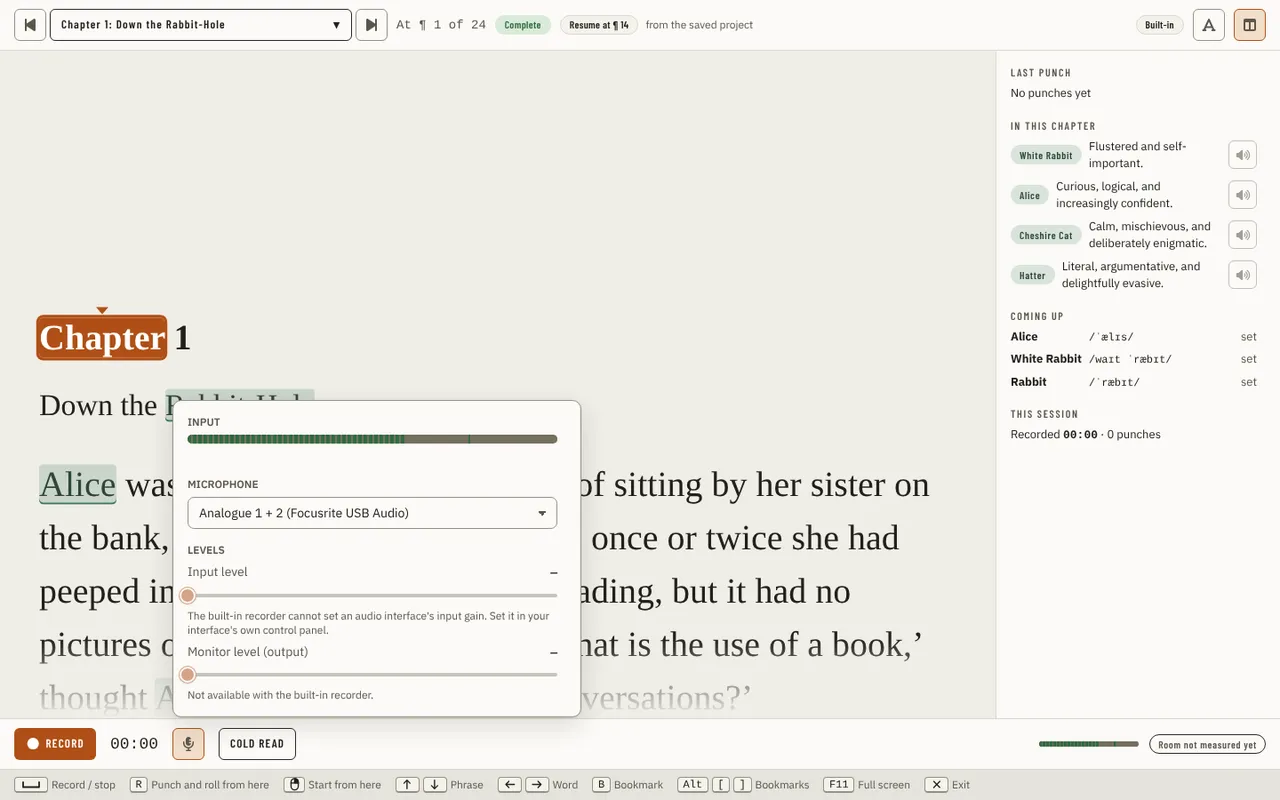
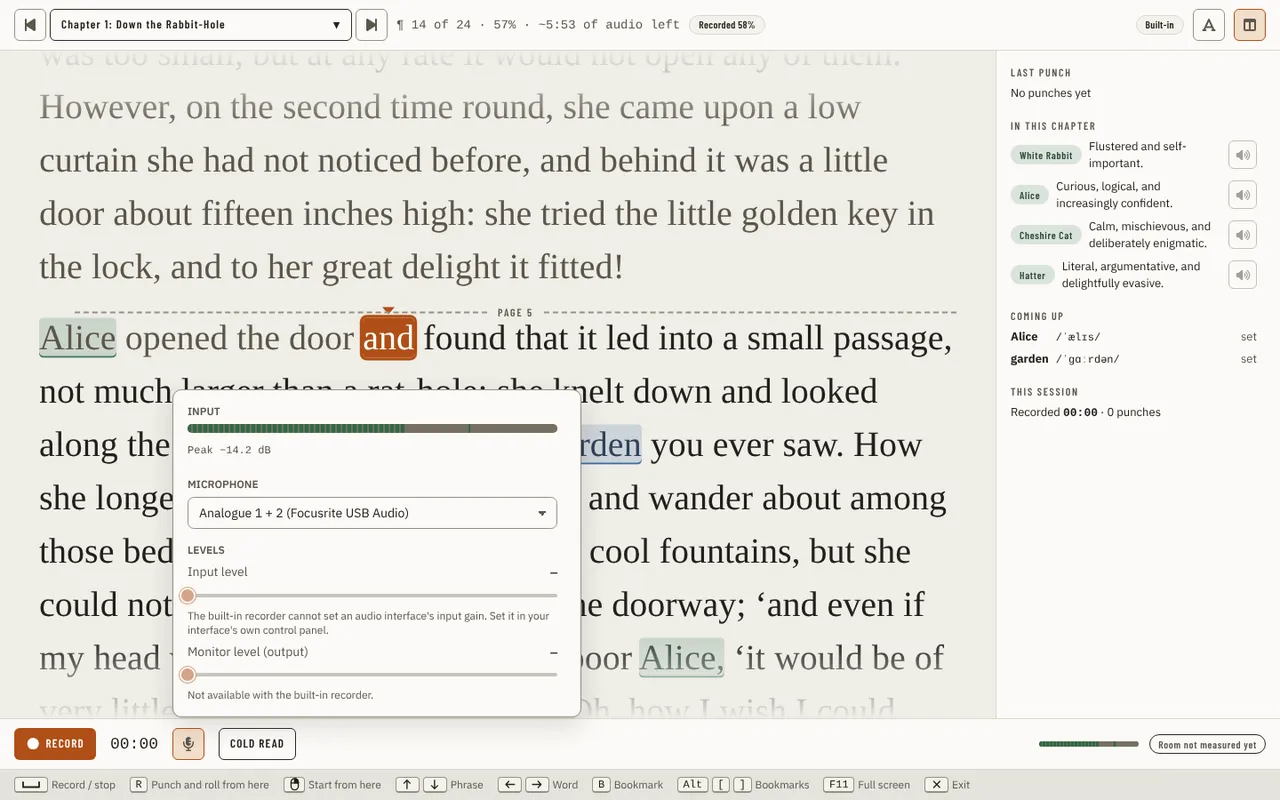
fix(booth): keep the Levels menu one height whatever the built-in meter does
ux-reviewer found the line under the built-in Input meter grew with a
refusal that wrapped, so the popover jumped, and stood empty as a gap
the rest of the time.

The line is now one fixed line (Check again's height): the held peak
while the meter reads ("Peak -14.2 dB"), else a short sentence that fits
at 390 px: "Opening the microphone…", "Paused while the app is in the
background.", "No microphone chosen." or "The meter did not start." with
Check again. The recorder's own reason, which can run long, is an error
toast with Retry.

New visual states for the opening, paused, no-microphone and refused
lines (mock seeds meter-hangs and mic-gone), and a Playwright test that
the menu keeps one height across them at 1440 and 390 px.

Claude-Session: https://claude.ai/code/session_01EBTykgAY8Rr8x1FcnRh3Fp

diff --git a/src/studio/ui/src/components/booth/frame/LevelsMenu.tsx b/src/studio/ui/src/components/booth/frame/LevelsMenu.tsx
@@ -2,6 +2,7 @@ import { useEffect, useState } from 'react';
 import type { DawCapabilitySupport } from '../../../api/contracts/daw';
 import type { RecordingEngine, RecorderDevice } from '../../../api/contracts/recording';
 import type { TeleprompterDevice } from '../../../api/contracts/teleprompter';
+import { useErrorToast } from '../../../hooks/useErrorToast';
 import { usePort } from '../../../ports/usePort';
 import { Button } from '../../primitives/Button';
 import { IconButton } from '../../primitives/IconButton';
@@ -293,29 +294,38 @@ function DawMeter({ caption, label, db, why }: { caption: string; label: string;
   );
 }
 
-/** What the built-in meter's sentence line says: what it is doing, why it shows no level, or nothing while it reads. */
-function recorderWhy(view: RecorderMeterView, device: string, listed: boolean): string | undefined {
+/**
+ * The built-in meter's one line, under the meter: the held peak while it reads, else a short sentence that always fits one line at the
+ * narrowest menu (390 px), so the menu never changes height between states. A refusal's own words, which can run long (a device's name),
+ * go in an error toast instead (docs/design/design-system.md#errors).
+ */
+function recorderLine(view: RecorderMeterView, listed: boolean): string | undefined {
   // With no microphone listed, the picker under the meter already says so.
   if (view.status === 'none') return listed ? 'No microphone chosen.' : undefined;
-  if ((view.status === 'starting' || view.status === 'take') && view.level === null) return `Opening ${device}…`;
+  if (view.status === 'starting' || view.status === 'take') return view.level === null ? 'Opening the microphone…' : undefined;
   if (view.status === 'paused') return 'Paused while the app is in the background.';
-  if (view.status === 'refused') return view.message ?? undefined;
+  if (view.status === 'refused') return 'The meter did not start.';
   return undefined;
 }
+
+/** The held peak as the line under the meter shows it: "Peak −14.2 dB", with a real minus sign. */
+const peakText = (peak: number): string => `Peak ${peak.toFixed(1).replace('-', '−')} dB`;
 
 /**
  * The menu's Input and Microphone with the built-in recorder (#2732): the one input meter is the recorder's own level for the microphone the
  * picker shows (the mock's Input meter, "the real level comes from the recorder"), started only on a microphone the recorder lists. Under it,
- * one line kept for its sentence (opening, paused, refused) with Check again after a refusal. A meter with no reading yet is drawn dimmed
- * and hidden from screen readers, so an opening microphone never reads as a silent one. Mounted only while the menu is open.
+ * one line of fixed height: the held peak while it reads, else what it is doing (opening, paused) or why it shows none, with Check again
+ * after a refusal, whose own words are an error toast with Retry. A meter with no reading yet is drawn dimmed and hidden from screen
+ * readers, so an opening microphone never reads as a silent one. Mounted only while the menu is open.
  */
 function BuiltinInput({ device, onDevice, recording }: { device: string; onDevice: (device: string) => void; recording: boolean }) {
   const { devices, problem } = useRecorderDevices();
   const listedDevice = devices === null ? null : devices.some((d) => d.name === device) ? device : '';
   const view = useRecorderMeter(listedDevice, recording);
   const reading = (view.status === 'live' || view.status === 'take') && view.level !== null ? view.level : null;
-  const why = recorderWhy(view, device, (devices?.length ?? 0) > 0);
   const refused = view.status === 'refused';
+  useErrorToast(refused ? view.message : null, view.retry);
+  const line = recorderLine(view, (devices?.length ?? 0) > 0);
   return (
     <>
       <div className="flex flex-col gap-1.5">
@@ -323,13 +333,15 @@ function BuiltinInput({ device, onDevice, recording }: { device: string; onDevic
         <div data-testid="input-meter" className={reading === null ? 'opacity-50' : ''}>
           <LevelMeter label="Input level" peak={reading?.peak ?? null} rms={reading?.rms ?? null} size="regular" decorative={reading === null} />
         </div>
-        {/* One line is kept for the sentence, so the menu does not jump as the meter starts; Check again, after a refusal, makes it taller. */}
-        <div className="flex min-h-4 items-center gap-2">
-          <span
-            role={refused ? 'alert' : 'status'}
-            className={`min-w-0 flex-1 text-xs [overflow-wrap:anywhere] ${refused ? 'text-[var(--danger-text)]' : 'text-[var(--text-muted)]'}`}
-          >
-            {why}
+        {/* One line of fixed height, Check again's included: the menu keeps its height whatever the meter is doing. */}
+        <div data-testid="input-line" className="flex h-7 items-center gap-2 text-xs whitespace-nowrap">
+          {reading ? (
+            <span aria-hidden="true" className="font-mono text-[var(--text-muted)] tabular-nums">
+              {peakText(reading.peak)}
+            </span>
+          ) : null}
+          <span role="status" className={`min-w-0 flex-1 truncate ${refused ? 'text-[var(--danger-text)]' : 'text-[var(--text-muted)]'}`}>
+            {line}
           </span>
           {refused ? <IconButton action="retry" label="Check again" size="xs" onClick={view.retry} /> : null}
         </div>

diff --git a/src/studio/ui/src/components/booth/frame/recorderMeter.test.tsx b/src/studio/ui/src/components/booth/frame/recorderMeter.test.tsx
@@ -211,14 +211,16 @@ describe("the built-in recorder's meter in the Levels menu", () => {
     expect(recorder.listeners.size).toBe(0);
   });
 
-  it('a refusal is the meter’s sentence, and the meter shows no reading', async () => {
+  it('a refusal says the meter did not start, gives its reason as an error toast, and shows no reading', async () => {
+    const toast = vi.spyOn(overlay, 'toast');
     const recorder = fakeRecorder();
     recorder.api.recorderMeterStart = async () => {
       throw new Error('a take is recording; its level shows in the Booth');
     };
     const { open } = booth(recorder.api);
     await open();
-    expect(await within(popup()).findByRole('alert')).toHaveProperty('textContent', 'a take is recording; its level shows in the Booth');
+    expect(await within(popup()).findByText('The meter did not start.')).toBeTruthy();
+    expect(toast).toHaveBeenCalledWith('a take is recording; its level shows in the Booth', expect.objectContaining({ tone: 'error' }));
     expect(within(popup()).queryByRole('meter', { name: 'Input level' })).toBeNull();
   });
 
@@ -301,9 +303,11 @@ describe("the built-in recorder's meter in the Levels menu", () => {
     const { open, close } = booth(recorder.api);
     await open();
     await waitFor(() => expect(recorder.calls).toEqual(['start:USB Mic']));
-    expect(within(popup()).getByText('Opening USB Mic…')).toBeTruthy();
+    const toast = vi.spyOn(overlay, 'toast');
+    expect(within(popup()).getByText('Opening the microphone…')).toBeTruthy();
     await act(async () => void (await vi.advanceTimersByTimeAsync(METER_WAIT_MS + 100)));
-    expect(within(popup()).getByRole('alert').textContent).toBe('The built-in recorder did not answer in 15 s.');
+    expect(within(popup()).getByText('The meter did not start.')).toBeTruthy();
+    expect(toast).toHaveBeenCalledWith('The built-in recorder did not answer in 15 s.', expect.objectContaining({ tone: 'error' }));
     await close();
     await waitFor(() => expect(recorder.calls).toEqual(['start:USB Mic', 'stop']));
   });
@@ -329,8 +333,8 @@ describe("the built-in recorder's meter in the Levels menu", () => {
       const { open, unmount } = booth(recorder.api, { device: name });
       await open();
       await waitFor(() => expect(recorder.calls).toEqual([`start:${name}`]));
-      const opening = within(popup()).getByText(`Opening ${name}…`);
-      expect(opening.className).toContain('[overflow-wrap:anywhere]');
+      // The line under the meter never names the device, so a long name cannot make the menu taller.
+      expect(within(popup()).getByText('Opening the microphone…')).toBeTruthy();
       unmount();
       cleanup();
     }
@@ -372,7 +376,7 @@ describe("the built-in recorder's meter in the Levels menu", () => {
     const { open } = booth(recorder.api);
     await open();
     await waitFor(() => expect(recorder.calls).toEqual(['start:USB Mic']));
-    expect(within(popup()).getByText('Opening USB Mic…')).toBeTruthy();
+    expect(within(popup()).getByText('Opening the microphone…')).toBeTruthy();
     expect(within(popup()).queryByRole('meter', { name: 'Input level' })).toBeNull();
     expect(within(popup()).getByTestId('input-meter').className).toContain('opacity-50');
   });
@@ -398,11 +402,11 @@ describe("the built-in recorder's meter in the Levels menu", () => {
     recorder.api.recorderMeterStart = (device: string) => (refuse ? Promise.reject(new Error('USB Mic is in use by another program')) : start(device));
     const { open } = booth(recorder.api);
     await open();
-    expect(await within(popup()).findByRole('alert')).toHaveProperty('textContent', 'USB Mic is in use by another program');
+    expect(await within(popup()).findByText('The meter did not start.')).toBeTruthy();
     refuse = false;
     await userEvent.click(within(popup()).getByRole('button', { name: 'Check again' }));
     await waitFor(() => expect(recorder.calls).toEqual(['start:USB Mic']));
-    expect(within(popup()).queryByRole('alert')).toBeNull();
+    expect(within(popup()).queryByText('The meter did not start.')).toBeNull();
     expect(within(popup()).queryByRole('button', { name: 'Check again' })).toBeNull();
   });
 
@@ -429,6 +433,19 @@ describe("the built-in recorder's meter in the Levels menu", () => {
     expect(await within(popup()).findByText('Paused while the app is in the background.')).toBeTruthy();
     fireEvent.focus(window);
     await waitFor(() => expect(within(popup()).queryByText('Paused while the app is in the background.')).toBeNull());
+  });
+
+  // ux-reviewer: a refusal that wrapped made the menu taller, so the popover jumped. Every state's line is one fixed line.
+  it('keeps every sentence on one fixed line under the meter, the reading shown as the held peak', async () => {
+    const recorder = fakeRecorder();
+    const { open } = booth(recorder.api);
+    await open();
+    await waitFor(() => expect(recorder.calls).toEqual(['start:USB Mic']));
+    recorder.emit({ peak: -14.2, rms: -24.6 });
+    const line = within(popup()).getByTestId('input-line');
+    await waitFor(() => expect(line.textContent).toContain('Peak −14.2 dB'));
+    expect(line.className).toContain('h-7');
+    expect(line.className).toContain('whitespace-nowrap');
   });
 
   it('runs against the mock recorder: a steady level while the menu is open, none after it closes', async () => {

diff --git a/src/studio/ui/tests/visual/drivers/booth.ts b/src/studio/ui/tests/visual/drivers/booth.ts
@@ -377,11 +377,30 @@ export const boothDrivers: Record<string, Driver> = {
     await page.getByRole('button', { name: 'Levels' }).click();
     const menu = page.getByRole('dialog', { name: 'Levels' });
     await menu.getByRole('combobox', { name: 'Microphone' }).selectOption({ label: 'Analogue 1 + 2 (Focusrite USB Audio)' });
-    await menu
-      .getByRole('alert')
-      .filter({ hasText: /could not open/ })
-      .waitFor();
+    await menu.getByText('The meter did not start.').waitFor();
     await menu.getByRole('button', { name: 'Check again' }).waitFor();
+    // The recorder's own words come as an error toast beside the menu.
+    await page
+      .getByText(/could not open/)
+      .first()
+      .waitFor();
+  },
+  'levels-menu-builtin-opening': async (page) => {
+    await readyToRecord(page, '?mockEngine=builtin&mockRecorder=meter-hangs');
+    await page.getByRole('button', { name: 'Levels' }).click();
+    const menu = page.getByRole('dialog', { name: 'Levels' });
+    await menu.getByRole('combobox', { name: 'Microphone' }).selectOption({ label: 'Analogue 1 + 2 (Focusrite USB Audio)' });
+    await menu.getByText('Opening the microphone…').waitFor();
+  },
+  'levels-menu-builtin-paused': async (page) => {
+    await openBuiltinLevels(page, '?mockEngine=builtin', 'Analogue 1 + 2 (Focusrite USB Audio)');
+    await page.evaluate(() => window.dispatchEvent(new Event('blur')));
+    await page.getByRole('dialog', { name: 'Levels' }).getByText('Paused while the app is in the background.').waitFor();
+  },
+  'levels-menu-builtin-no-mic': async (page) => {
+    await readyToRecord(page, '?mockEngine=builtin&mockRecorder=mic-gone');
+    await page.getByRole('button', { name: 'Levels' }).click();
+    await page.getByRole('dialog', { name: 'Levels' }).getByText('No microphone chosen.').waitFor();
   },
   'levels-menu-builtin-long-name': (page) => openBuiltinLevels(page, '?mockEngine=builtin&mockMics=long', `Long ${'microphone name '.repeat(19)}end`),
   'levels-menu-builtin-rtl-name': (page) => openBuiltinLevels(page, '?mockEngine=builtin&mockMics=weird', 'ميكروفون 🎤 (USB)'),

diff --git a/src/studio/ui/tests/visual/catalog/booth.ts b/src/studio/ui/tests/visual/catalog/booth.ts
@@ -245,7 +245,28 @@ export const boothStates: StateEntry[] = [
     page: 'booth',
     state: 'levels-menu-builtin-refused',
     description:
-      "The Levels menu of levels-menu-builtin when the built-in recorder cannot open the microphone (?mockRecorder=start-fails): the Input meter dimmed with no reading, the recorder's sentence under it in the error colour, and Check again beside it",
+      'The Levels menu of levels-menu-builtin when the built-in recorder cannot open the microphone (?mockRecorder=start-fails): the Input meter dimmed with no reading, "The meter did not start." under it in the error colour with Check again, and the recorder\'s own reason in an error toast',
+    ...REFLOW,
+  },
+  {
+    page: 'booth',
+    state: 'levels-menu-builtin-opening',
+    description:
+      'The Levels menu of levels-menu-builtin while the meter\'s start has not answered (?mockRecorder=meter-hangs): the Input meter dimmed with no reading and "Opening the microphone…" under it, the menu the same height as when it reads',
+    ...REFLOW,
+  },
+  {
+    page: 'booth',
+    state: 'levels-menu-builtin-paused',
+    description:
+      'The Levels menu of levels-menu-builtin after the window lost focus: the meter stopped, dimmed, and "Paused while the app is in the background." under it',
+    ...REFLOW,
+  },
+  {
+    page: 'booth',
+    state: 'levels-menu-builtin-no-mic',
+    description:
+      'The Levels menu with the built-in recorder when it no longer lists the chosen microphone (?mockRecorder=mic-gone): no meter started, the Input meter dimmed and "No microphone chosen." under it, the picker showing the chosen one as not found',
     ...REFLOW,
   },
   {

diff --git a/src/studio/ui/src/main.tsx b/src/studio/ui/src/main.tsx
@@ -418,15 +418,18 @@ const mockProduction = (['on-pace', 'at-risk', 'linked'] as const).find((seed) =
 // `?mockFidelity=05` draws the mock backend as benchmark mock 05 draws Master & QC, for the pixel-match tool (mockHost/mockFidelity.ts).
 const mockFidelity = mockFidelityFrom(mockParams.get('mockFidelity'));
 
-// `?mockRecorder=recording|failed|empty|no-devices|start-fails|unavailable` seeds the Booth's built-in recorder
+// `?mockRecorder=recording|failed|empty|no-devices|start-fails|meter-hangs|mic-gone|unavailable` seeds the Booth's built-in recorder
 // with `?mockEngine=builtin` choosing it: a take 42 s in; the last take ended on
-// its own; no takes yet; no input device listed; a device that will not open on Record; the wasapi row unavailable here.
+// its own; no takes yet; no input device listed; a device that will not open on Record; a Levels meter whose start never answers; a
+// recorder that no longer lists the microphone the Booth listens on (other microphones listed); the wasapi row unavailable here.
 const MOCK_RECORDER_SEEDS: Record<string, RecordingMockSeed> = {
   recording: { recording: true },
   failed: { lastTakeFailed: true },
   empty: { takes: 'none' },
   'no-devices': { takes: 'none', devices: 'none' },
   'start-fails': { startFails: true },
+  'meter-hangs': { meterHangs: true },
+  'mic-gone': { deviceNames: ['USB Headset (Jabra Evolve2)', 'Line In (Realtek(R) Audio)'] },
   unavailable: { unavailable: true },
 };
 const mockRecorderParam = mockParams.get('mockRecorder') ?? '';

diff --git a/src/studio/ui/tests/visual/booth-popovers.spec.ts b/src/studio/ui/tests/visual/booth-popovers.spec.ts
@@ -46,3 +46,28 @@ for (const size of [
     expect.soft(new Set(g.gaps).size, 'one gap between sections').toBe(1);
   });
 }
+
+// ux-reviewer on #2802: a refusal that wrapped made the Levels menu taller, so the popover jumped. With the built-in recorder, the menu is
+// one height whatever its meter is doing: reading, opening, paused, refused or with no microphone chosen.
+for (const size of [
+  { width: 1440, height: 900 },
+  { width: 390, height: 844 },
+]) {
+  test(`levels-menu-builtin at ${size.width}: the menu keeps one height across the meter's states`, async ({ page }) => {
+    // Five states, each from a fresh load.
+    test.setTimeout(150_000);
+    const heights: Record<string, number> = {};
+    for (const state of [
+      'levels-menu-builtin',
+      'levels-menu-builtin-opening',
+      'levels-menu-builtin-paused',
+      'levels-menu-builtin-refused',
+      'levels-menu-builtin-no-mic',
+    ]) {
+      await drive(page, state, size);
+      const box = await page.getByRole('dialog', { name: 'Levels' }).boundingBox();
+      heights[state] = Math.round(box!.height);
+    }
+    expect(new Set(Object.values(heights)).size, JSON.stringify(heights)).toBe(1);
+  });
+}

diff --git a/src/studio/ui/src/api/recordingMock.ts b/src/studio/ui/src/api/recordingMock.ts
@@ -51,6 +51,8 @@ export type RecordingMockSeed = {
   deviceNames?: readonly string[];
   /** Start, and the meter's start, are refused with the sidecar's sentence (a device that will not open). */
   startFails?: boolean;
+  /** The meter's start never answers (a recorder that has stopped responding). */
+  meterHangs?: boolean;
 };
 
 /**
@@ -137,6 +139,7 @@ export function createRecordingMock(seed: RecordingMockSeed = {}): RecordingApi 
       builtin();
       if (state.phase === 'recording' || state.phase === 'stopping') throw new Error('a take is recording; its level shows in the Booth');
       if (!device.trim()) throw new Error('choose a microphone');
+      if (seed.meterHangs) return new Promise<RecorderState>(() => undefined);
       // A device that will not open for a take will not open for the meter either.
       if (seed.startFails) throw new Error(`The built-in recorder could not open ${device}: the device is in use by another application`);
       state = { ...state, phase: 'metering', device, message: '' };

diff --git a/src/studio/ui/src/interactionFeedback/recording.ts b/src/studio/ui/src/interactionFeedback/recording.ts
@@ -8,10 +8,10 @@ export const recordingFeedback = {
     'inline',
     'pending',
     'ui',
-    'inline',
+    'toast',
     'yes',
     'ok',
-    "Opening the Booth's Levels menu with the built-in recorder starts its meter on the chosen microphone: the row says it is opening the device, then the level moves; a refusal, or no answer within METER_WAIT_MS, is the row's sentence. One call at a time, kept outside the menu, so a call on its way survives closing it.",
+    "Opening the Booth's Levels menu with the built-in recorder starts its meter on the chosen microphone: the line under the meter says it is opening it, then the level moves; a refusal, or no answer within METER_WAIT_MS, says the meter did not start, with Check again, and its reason is an error toast with Retry. One call at a time, kept outside the menu, so a call on its way survives closing it.",
   ),
   'src/components/booth/frame/recorderMeter.ts::recorderMeterStop#1': row(
     'effect',

diff --git a/docs/guides/using-the-app/booth.md b/docs/guides/using-the-app/booth.md
@@ -204,10 +204,11 @@ in the project's `Recordings` folder (`Take 001.wav`, `Take 002.wav`, …); an e
   will not let the app open (another program has it, or the privacy setting blocks it) is refused in the recorder's own words and
   nothing records.
 - **The recorder's own level.** While **Levels** is open, its **Input** meter shows the level the built-in recorder hears on the
-  microphone chosen under it, before a take and during one. No file is written. Choosing another microphone moves it to that one;
-  a microphone the recorder does not list is not metered. The recorder lets go of the microphone when you close **Levels**, leave
-  the Booth or press Record. While the app is in the background the meter is paused, and the line under it says so. If the recorder
-  refuses the microphone, or does not answer within 15 seconds, that line says why, with **Check again** beside it.
+  microphone chosen under it, before a take and during one, and the line under it gives the peak (**Peak −14.2 dB**). No file is
+  written. Choosing another microphone moves it to that one; a microphone the recorder does not list is not metered. The recorder
+  lets go of the microphone when you close **Levels**, leave the Booth or press Record. While the app is in the background the meter
+  is paused, and the line under it says so. If the recorder refuses the microphone, or does not answer within 15 seconds, the line
+  says **The meter did not start.** with **Check again** beside it, and a message gives the recorder's reason.
 
   ![Booth - the Levels menu with the built-in recorder: its Input meter is the recorder's own level](../../images/ui/booth-levels-menu-builtin.webp)
 
